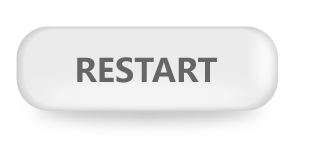
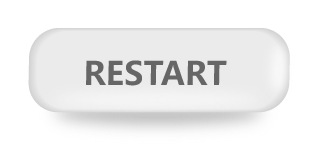
change restart button image

diff --git a/src/ts/frontend/size/size.ts b/src/ts/frontend/size/size.ts
@@ -107,6 +107,7 @@ namespace SZ {
         export const BUTTON_W: number = 0.193125;
         export const BUTTON_H: number = 0.09375;
         export const BUTTON_X: number = 0.5 - BUTTON_W / 2;
+        export const RESTART_X: number = BUTTON_X - 0.005;
         export const RESTART_Y: number = (RELATIVE_HEIGHT - BUTTON_H) / 2;
         export const RESUME_Y: number = RESTART_Y - 0.1;
         export const MAINMENU_Y: number = RESTART_Y + 0.1;
@@ -119,6 +120,7 @@ namespace SZ {
         export const BUTTON_W: number = PAUSE.BUTTON_W;
         export const BUTTON_H: number = PAUSE.BUTTON_H;
         export const BUTTON_X: number = 0.5 - BUTTON_W / 2;
+        export const RESTART_X: number = BUTTON_X - 0.005;
         export const RESTART_Y: number = 0.28;
         export const MAINMENU_Y: number = 0.37;
         export const SHARE_Y: number = 0.46;

diff --git a/src/ts/frontend/game/size.d.ts b/src/ts/frontend/game/size.d.ts
@@ -115,6 +115,7 @@ declare namespace SZ {
         const BUTTON_H: number;
         const BUTTON_X: number;
         const RESUME_Y: number;
+        const RESTART_X: number;
         const RESTART_Y: number;
         const MAINMENU_Y: number;
     }
@@ -126,6 +127,7 @@ declare namespace SZ {
         const BUTTON_W: number;
         const BUTTON_H: number;
         const BUTTON_X: number;
+        const RESTART_X: number;
         const RESTART_Y: number;
         const MAINMENU_Y: number;
         const SHARE_Y: number;

diff --git a/src/ts/frontend/game/layers/pause-layer.ts b/src/ts/frontend/game/layers/pause-layer.ts
@@ -28,7 +28,7 @@ class PauseLayer extends AbstractLayer {
             IMG.PAUSE.resume, IMG.PAUSE.resumeFocus, () => this.Resume());
         this.restart = new AnimatedButton(
             new RectBound(
-                SZ.PAUSE.BUTTON_X, SZ.PAUSE.RESTART_Y,
+                SZ.PAUSE.RESTART_X, SZ.PAUSE.RESTART_Y,
                 SZ.PAUSE.BUTTON_W, SZ.PAUSE.BUTTON_H),
             IMG.BTN.restart, IMG.BTN.restartFocus, () => this.Restart());
         this.mainMenu = new AnimatedButton(

diff --git a/src/ts/frontend/game/layers/gameover-layer.ts b/src/ts/frontend/game/layers/gameover-layer.ts
@@ -70,7 +70,7 @@ class GameOverLayer extends AbstractLayer {
     private MakeRestartButton() {
         return new AnimatedButton(
             new RectBound(
-                SZ.GAMEOVER.BUTTON_X, SZ.GAMEOVER.RESTART_Y,
+                SZ.GAMEOVER.RESTART_X, SZ.GAMEOVER.RESTART_Y,
                 SZ.GAMEOVER.BUTTON_W, SZ.GAMEOVER.BUTTON_H),
             IMG.BTN.restart, IMG.BTN.restartFocus, () => this.Restart());
     }
